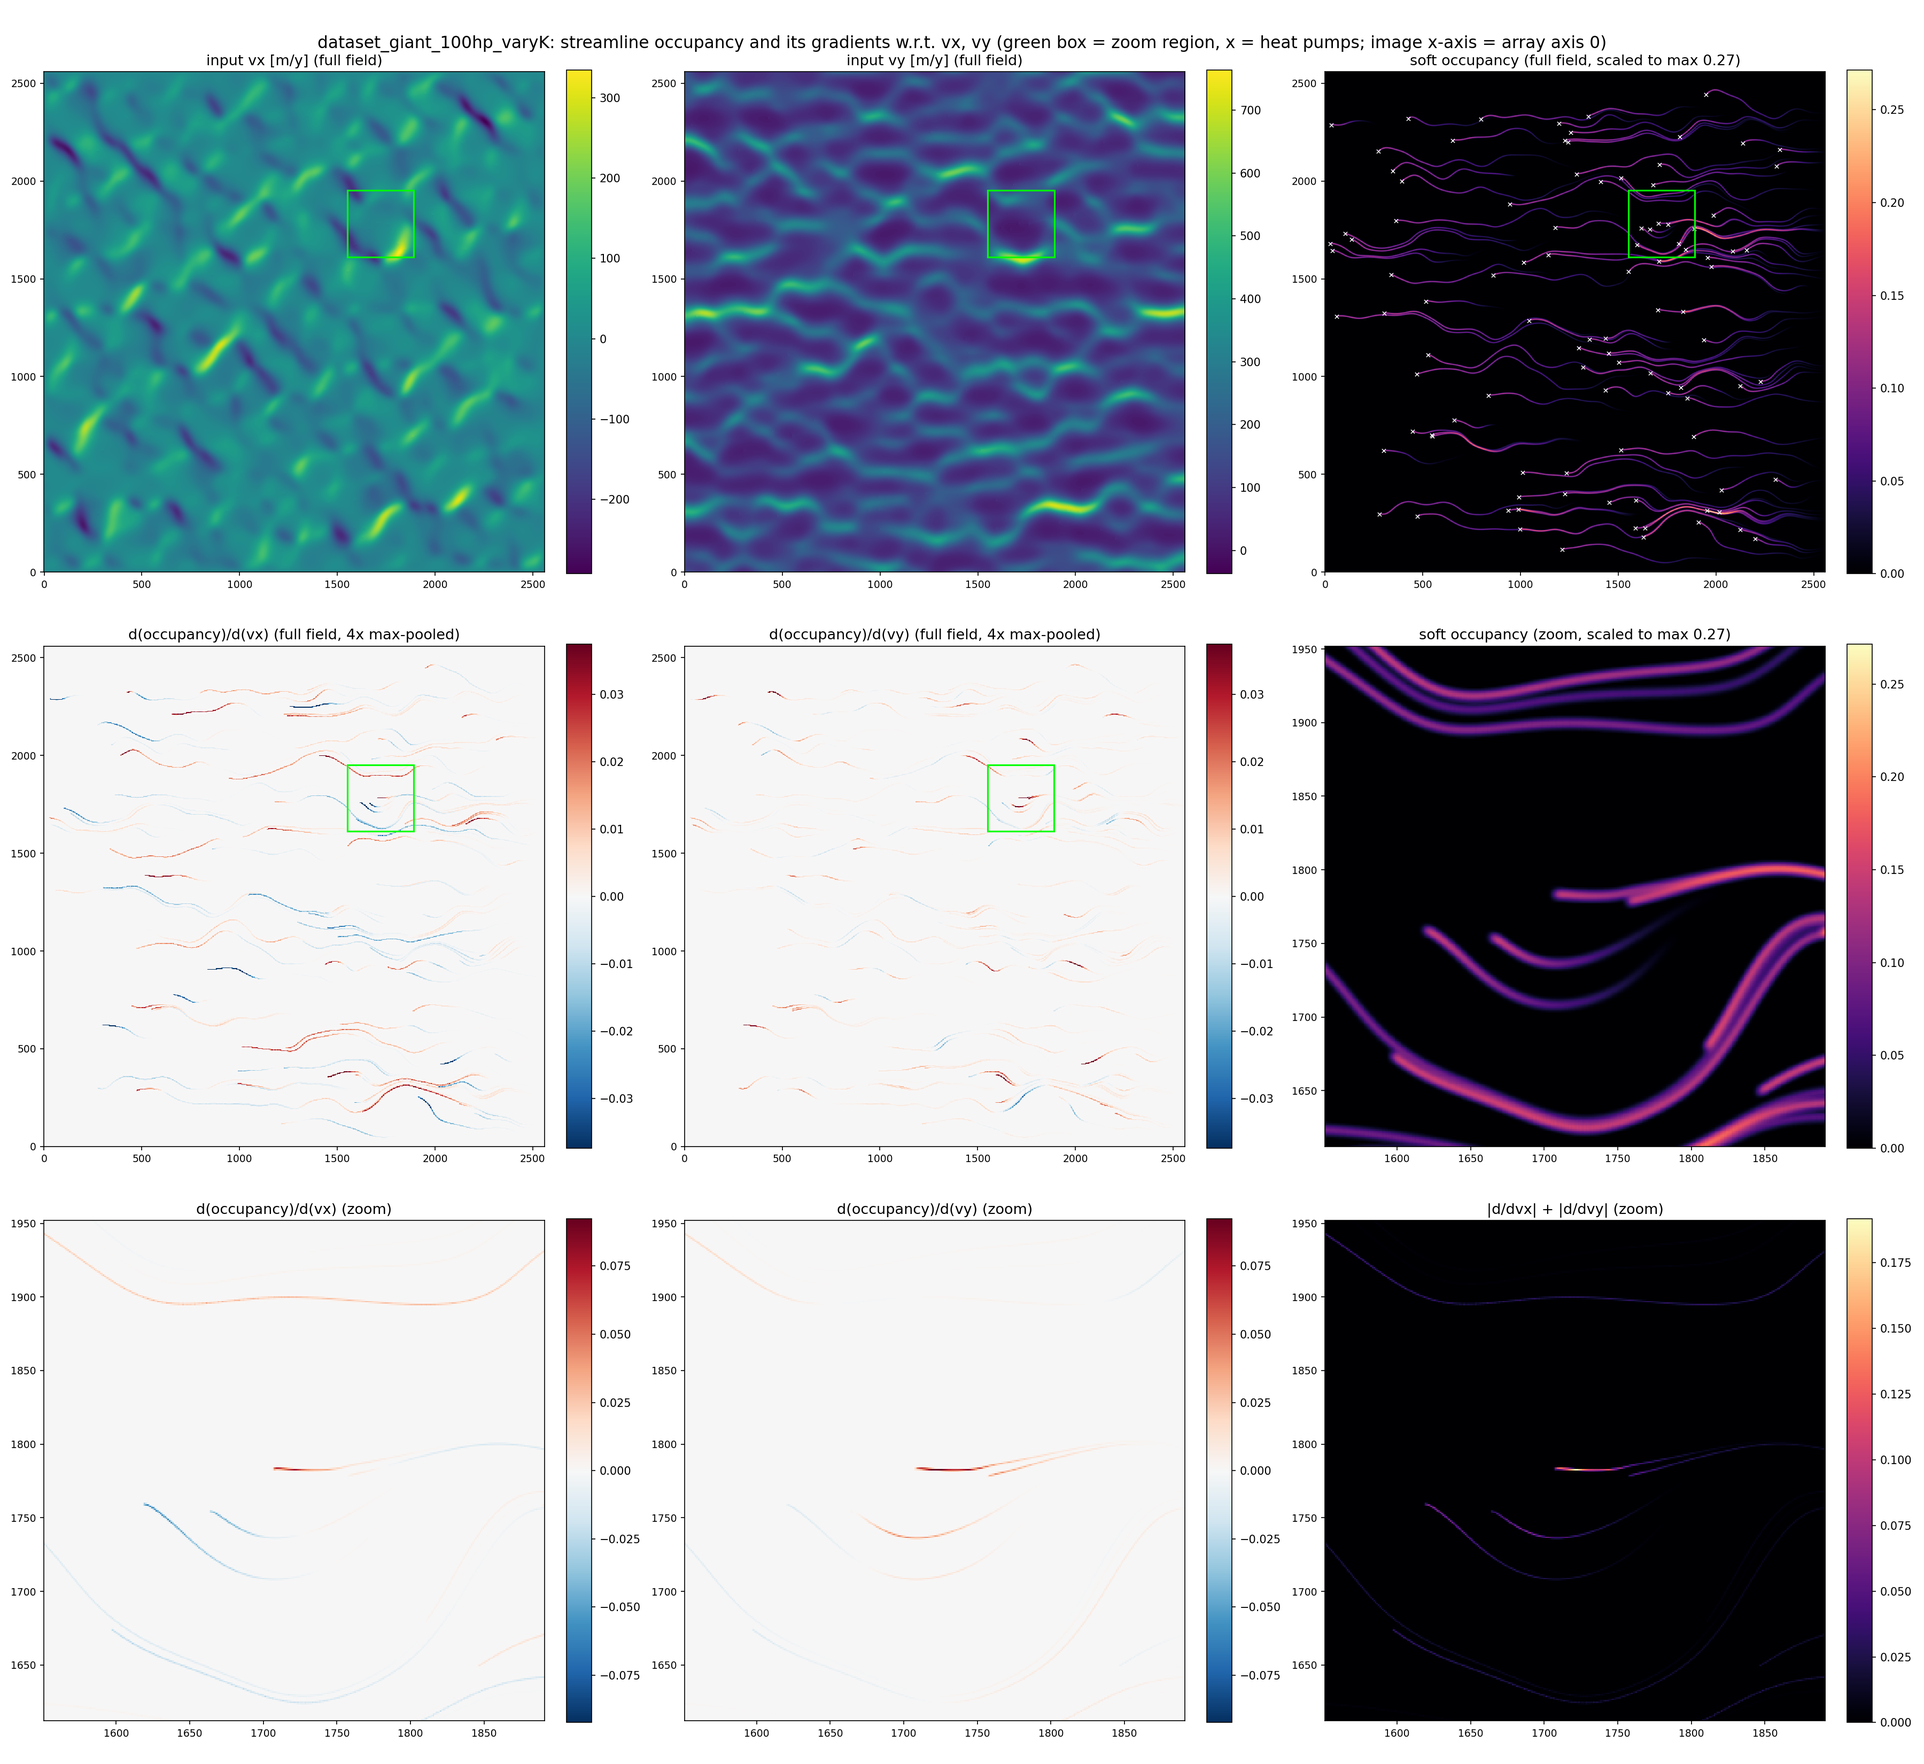
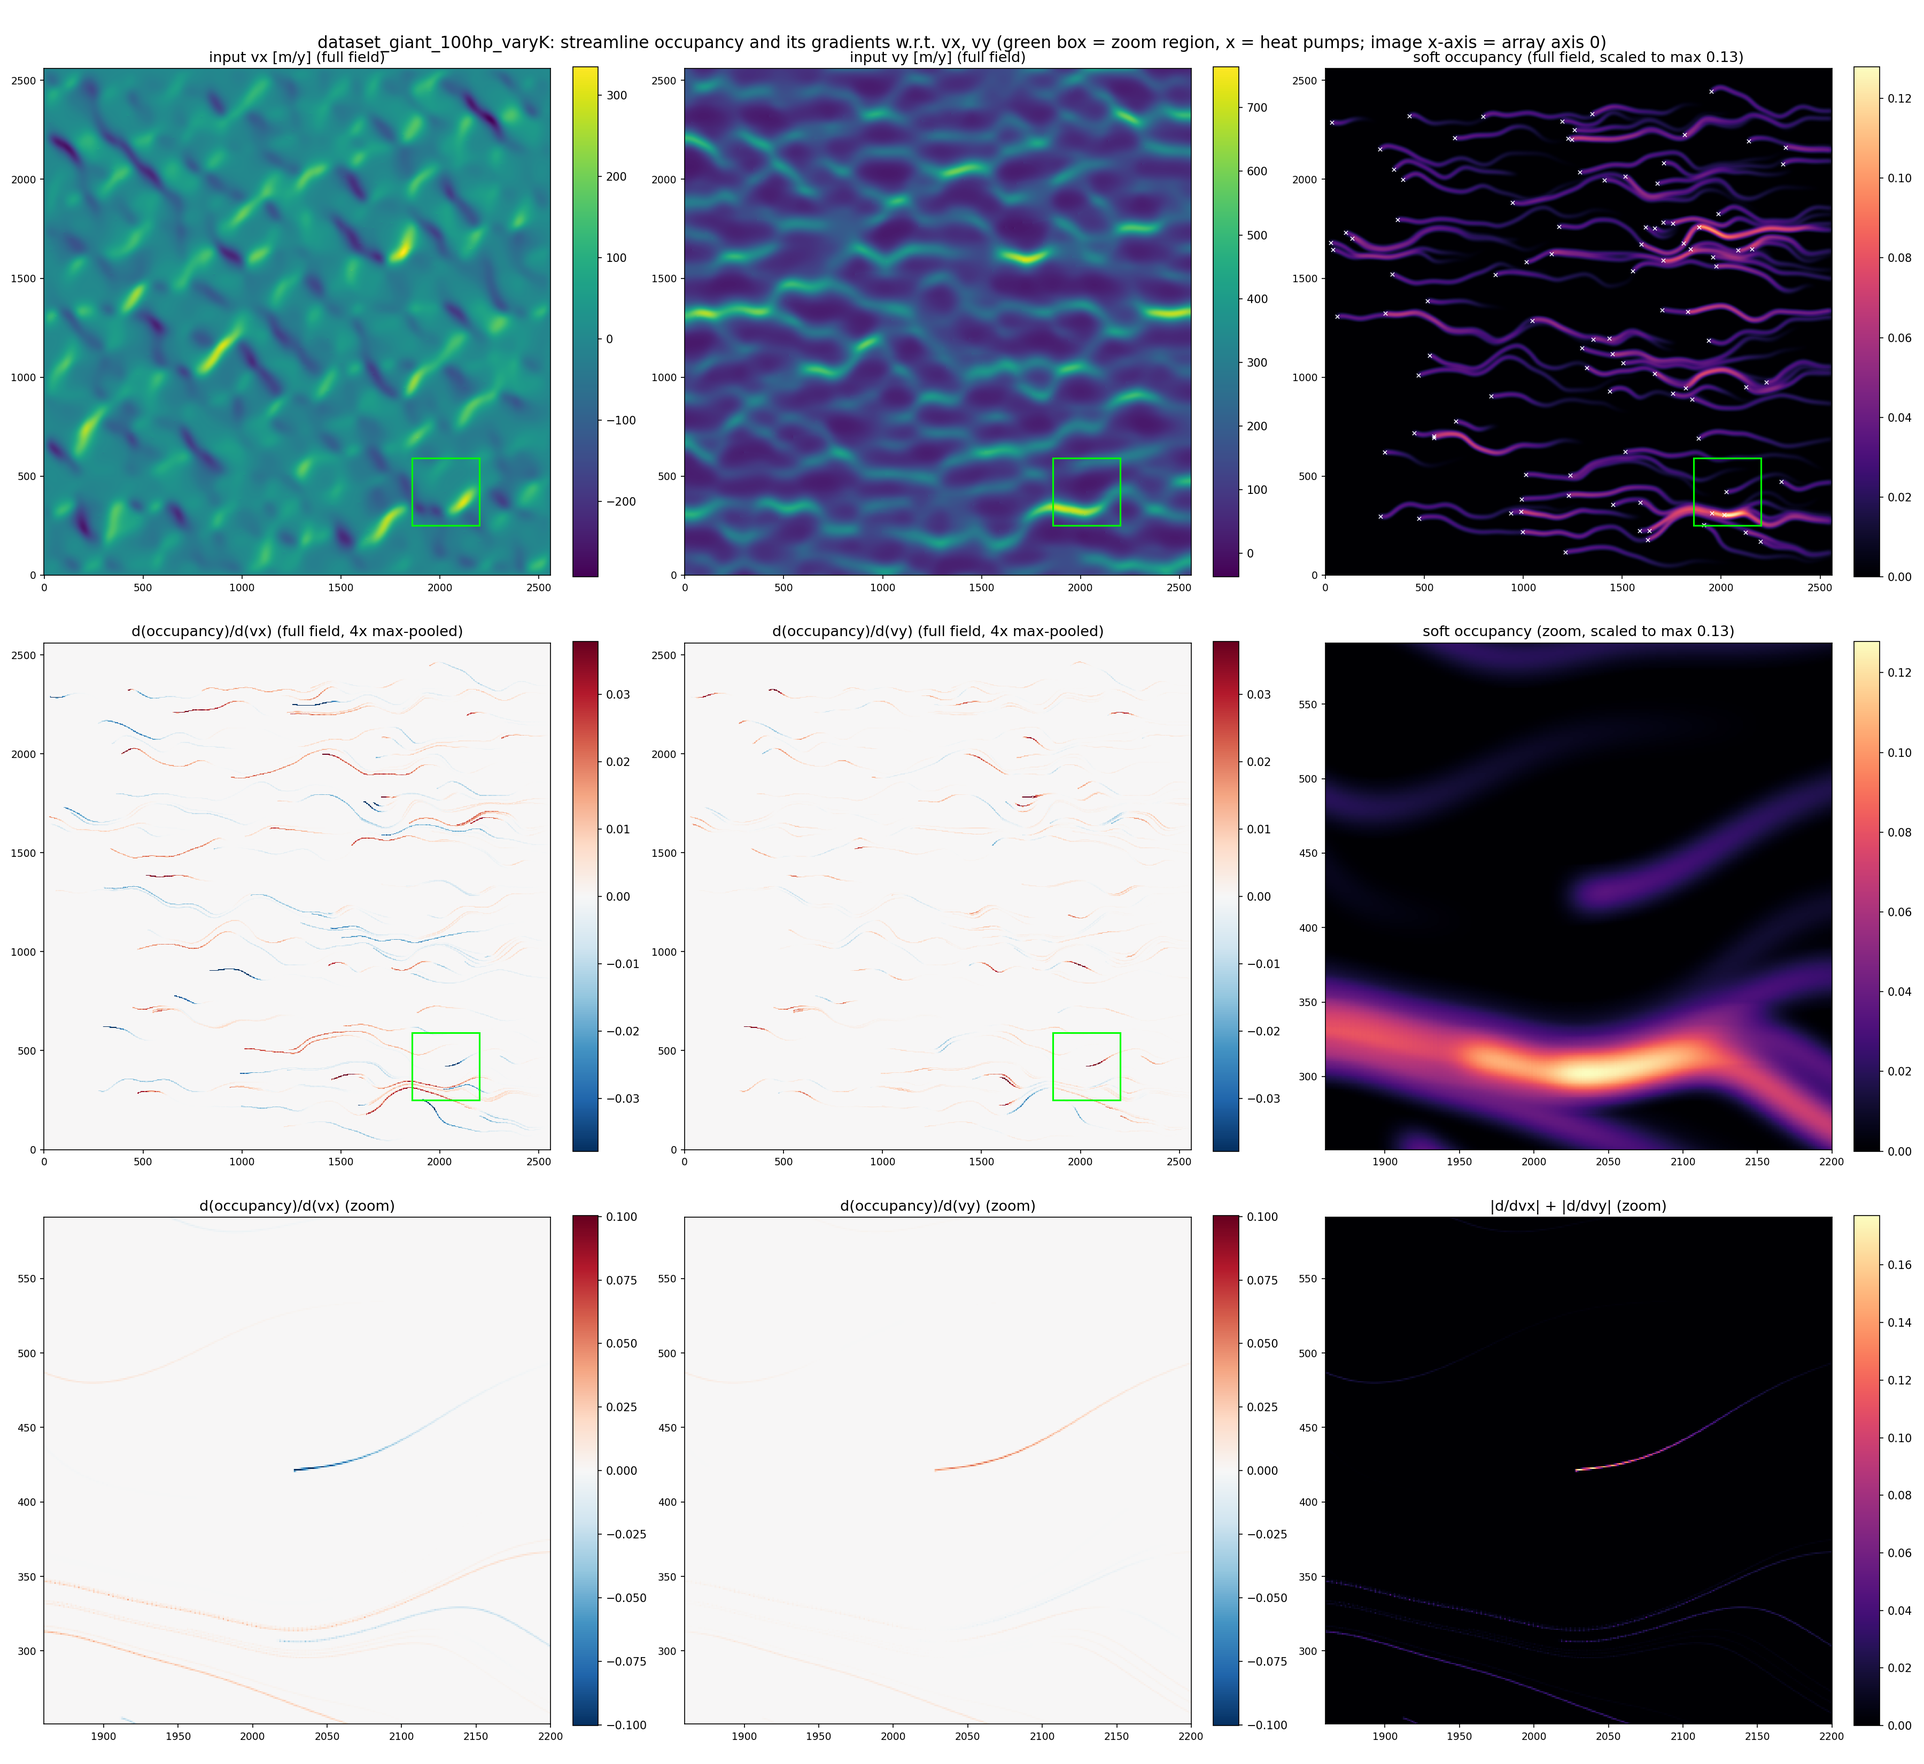
larger blumes with efficient conv kernel

diff --git a/code/step2_streamlines/streamlines_helpers.py b/code/step2_streamlines/streamlines_helpers.py
@@ -1,5 +1,6 @@
 import numpy as np
 import torch
+import torch.nn.functional as F
 from datetime import datetime
 from pathlib import Path
 
@@ -156,27 +157,77 @@ def draw_streamlines(image_data:torch.Tensor, streamlines:list, faded:bool=False
     print("Time for drawing streamlines: ", datetime.now()-time, " seconds")
     return image_data
 
+SIGMA_BLUR_MIN = 1.0  # at/above this sigma "auto" drawing switches from the splat to the blur path
+
+def _scatter_bilinear(density, x, y, amp, dims):
+    # Deposit each sample's mass `amp` on the 4 cell centers surrounding it (centers sit at integer
+    # coordinates, the same convention the splat path's floor(x+0.5) indexing uses). Which 4 cells
+    # are hit is discrete -> detached; the bilinear weights carry the gradient w.r.t. position.
+    i0, j0 = x.floor(), y.floor()
+    fx = (x - i0.detach()).unsqueeze(1)
+    fy = (y - j0.detach()).unsqueeze(1)
+    i0 = i0.detach().long().unsqueeze(1)
+    j0 = j0.detach().long().unsqueeze(1)
+    ii = torch.cat([i0, i0+1, i0,   i0+1], dim=1)
+    jj = torch.cat([j0, j0,   j0+1, j0+1], dim=1)
+    w = torch.cat([(1-fx)*(1-fy), fx*(1-fy), (1-fx)*fy, fx*fy], dim=1) * amp.unsqueeze(1)
+    mask = (ii >= 0) & (ii < dims[0]) & (jj >= 0) & (jj < dims[1])
+    density.index_put_((ii[mask], jj[mask]), w[mask], accumulate=True)
+
+def _gaussian_blur_separable(img, sigma, radius):
+    # The same analytic Gaussian the splat path evaluates, applied as two 1D passes:
+    # exp(-(di^2+dj^2)/2s^2) / (2 pi s^2) factorizes into [exp(-di^2/2s^2) / (sqrt(2 pi) s)] per
+    # axis. The kernel is left un-renormalized so the truncation at +-radius drops the same tail
+    # mass the splat path's window drops. Zero padding discards what blurs out of the domain,
+    # matching the splat path's bounds mask. Cost: 2*(2*radius+1) taps over the grid.
+    r = torch.arange(-radius, radius+1, dtype=img.dtype, device=img.device)
+    k = torch.exp(-r**2 / (2*sigma**2)) / (np.sqrt(2*np.pi) * sigma)
+    out = img.unsqueeze(0).unsqueeze(0)
+    out = F.conv2d(out, k.view(1, 1, -1, 1), padding=(radius, 0))
+    out = F.conv2d(out, k.view(1, 1, 1, -1), padding=(0, radius))
+    return out[0, 0]
+
 def draw_streamlines_soft(streamlines, dims, faded:bool=False, sigma:float=0.7, window:int=None,
-                          fade_mode:str="absolute", t_end:float=27.5):
+                          fade_mode:str="absolute", t_end:float=27.5, method:str="auto"):
     # Differentiable version of draw_streamlines: instead of setting single cells (gradient zero
-    # almost everywhere), every sample spreads a normalized Gaussian over its window x window
-    # neighborhood. Samples are weighted by their arc length ds, so a cell's density is the
-    # faded line length crossing it (independent of the time-sampling density) and does not
-    # saturate where samples are dense. occupancy = 1 - exp(-density) keeps values in [0,1).
+    # almost everywhere), every sample spreads a normalized Gaussian of width sigma. Samples are
+    # weighted by their arc length ds, so a cell's density is the faded line length crossing it
+    # (independent of the time-sampling density) and does not saturate where samples are dense.
+    # occupancy = 1 - exp(-density) keeps values in [0,1).
     # fade_mode "absolute" (default): fade = 1 - t/t_end - independent of where a line is cut,
     # so patch/window training and full-domain inference see identical channel semantics.
     # "per_line" (legacy, baseline comparability): fade 1 -> 0 over each line's visible segment,
     # the paper convention used by the offline hard-drawn datasets.
+    #
+    # Two ways to rasterize the same field, selected by `method`:
+    #  "splat": evaluate the Gaussian at every cell of each sample's window x window neighborhood.
+    #      Exact, but allocates n_samples x window^2 = n_samples x (4 sigma + 1)^2 entries per line
+    #      and *keeps them in the autograd graph* -> memory grows quadratically in sigma and runs a
+    #      24 GB card out of memory around sigma >~ 4 on full-domain data.
+    #  "blur": a Gaussian splat is a point mass convolved with a Gaussian, so scatter each sample
+    #      bilinearly (4 cells) and convolve the accumulated density once, separably. Memory per
+    #      sample is constant in sigma and the convolution is one cheap pass over the grid; the
+    #      backward is again a convolution. Gradients w.r.t. sample position flow through the
+    #      bilinear weights and are then smoothed by the blur.
+    #  "auto" (default): "blur" from sigma >= SIGMA_BLUR_MIN, "splat" below, where the splat path is
+    #      cheap and its exact sub-cell kernel still matters relative to the blob size.
+    # Bilinear deposition is itself a convolution with a triangular kernel of variance 1/6 per axis,
+    # so the blur uses sqrt(sigma^2 - 1/6) to land on total width sigma - the two paths then agree
+    # to well under a percent across the switch (the correction is 0.008% at sigma=10).
     if window is None:
         window = 2*int(np.ceil(2*sigma)) + 1  # cover +-2 sigma
+    use_blur = method == "blur" or (method == "auto" and sigma >= SIGMA_BLUR_MIN)
+    if method not in ("auto", "blur", "splat"):
+        raise ValueError(f"unknown drawing method {method!r} (expected 'auto', 'blur' or 'splat')")
     device = streamlines[0][0].device if streamlines else "cpu"
     dtype = streamlines[0][0].dtype if streamlines else torch.float32
     density = torch.zeros(tuple(dims), dtype=dtype, device=device)
     half = window // 2
-    offs = torch.arange(-half, half+1, dtype=dtype, device=device)
-    off_i, off_j = torch.meshgrid(offs, offs, indexing='ij')
-    off_i = off_i.reshape(1,-1)
-    off_j = off_j.reshape(1,-1)
+    if not use_blur:
+        offs = torch.arange(-half, half+1, dtype=dtype, device=device)
+        off_i, off_j = torch.meshgrid(offs, offs, indexing='ij')
+        off_i = off_i.reshape(1,-1)
+        off_j = off_j.reshape(1,-1)
     for sol_x, sol_y, t in streamlines:
         if len(t) < 2:
             continue
@@ -189,6 +240,10 @@ def draw_streamlines_soft(streamlines, dims, faded:bool=False, sigma:float=0.7, 
             fade = (1 - t/t_end).clamp(min=0)
         else:  # per_line
             fade = 1 - t/t[-1]
+        if use_blur:
+            # unit point masses now, Gaussian applied to the summed density below
+            _scatter_bilinear(density, sol_x, sol_y, fade*ds, dims)
+            continue
         # cells around each sample; which cell a blob lands in is discrete -> detached,
         # the smooth kernel below carries the gradient
         cells_i = (sol_x + 0.5).floor().detach().unsqueeze(1) + off_i
@@ -197,11 +252,13 @@ def draw_streamlines_soft(streamlines, dims, faded:bool=False, sigma:float=0.7, 
         w = torch.exp(-d2/(2*sigma**2)) / (2*np.pi*sigma**2) * (fade*ds).unsqueeze(1)
         mask = (cells_i >= 0) & (cells_i < dims[0]) & (cells_j >= 0) & (cells_j < dims[1])
         density.index_put_((cells_i[mask].long(), cells_j[mask].long()), w[mask], accumulate=True)
+    if use_blur:
+        density = _gaussian_blur_separable(density, np.sqrt(max(sigma**2 - 1/6, 1e-6)), half)
     return 1 - torch.exp(-density)
 
 def trace_and_draw_soft(hp_positions, vx, vy, dims, offsets:list=(0,), randomK_data:bool=False,
                         faded:bool=True, t_steps:int=10_000, sigma:float=1.0, use_compile:bool=False,
-                        fade_mode:str="absolute"):
+                        fade_mode:str="absolute", method:str="auto"):
     # Differentiable forward pass of step 2: trace streamlines for all offsets in one batch and
     # rasterize each offset group to a soft-occupancy image (one image per offset).
     # No detach/no_grad: gradients flow from the images back to vx, vy (physical velocities in
@@ -217,7 +274,8 @@ def trace_and_draw_soft(hp_positions, vx, vy, dims, offsets:list=(0,), randomK_d
 
     velocity = build_velocity_grid(vx/resolution, vy/resolution, dims, randomK_data=randomK_data)
     streamlines = calc_streamlines(starts, velocity, (dims[0]-1, dims[1]-1), t_end=27.5, t_steps=t_steps, use_compile=use_compile)
-    return [draw_streamlines_soft(streamlines[i*n_hps:(i+1)*n_hps], dims, faded=faded, sigma=sigma, fade_mode=fade_mode)
+    return [draw_streamlines_soft(streamlines[i*n_hps:(i+1)*n_hps], dims, faded=faded, sigma=sigma,
+                                  fade_mode=fade_mode, method=method)
             for i in range(len(offsets))]
 
 def make_streamlines_gradients(mat_ids, vx, vy, dims, offset:float=None, randomK_data:bool=False, faded:bool=True,

diff --git a/code/step2_streamlines/test_streamlines_gradients.py b/code/step2_streamlines/test_streamlines_gradients.py
@@ -36,7 +36,7 @@ DATASET_NAME = "dataset_giant_100hp_varyK"
 RANDOM_K = True
 
 T_STEPS = 1200   # caps the RK4 steps; backward through the loop is the expensive part
-SIGMA = 2.5      # splat width in cells, sized so lines/gradients are visible on the 2560^2 grid
+SIGMA = 10.0      # splat width in cells, sized so lines/gradients are visible on the 2560^2 grid
 ZOOM = 340       # zoom window size in cells
 DEVICE = "cuda" if torch.cuda.is_available() else "cpu"
 
@@ -77,23 +77,55 @@ def gradcheck_streamlines():
     element-by-element against float64 central differences on a tiny problem.
     Needs float64 (the production pipeline is float32) and a slow, smooth velocity field so no
     line is cut at the domain boundary (cuts are discrete events - genuinely non-differentiable
-    points where a Jacobian comparison must not sit)."""
+    points where a Jacobian comparison must not sit).
+    Run for both rasterization paths: the exact splat (small sigma) and the scatter+separable-blur
+    path that takes over from sigma >= SIGMA_BLUR_MIN."""
     dims_gc = (16, 12)
     xx, yy = np.meshgrid(np.arange(dims_gc[0]), np.arange(dims_gc[1]), indexing="ij")
-    vx0 = torch.tensor(0.5 + 0.1*np.sin(yy/3.), dtype=torch.float64, requires_grad=True)
-    vy0 = torch.tensor(0.2*np.cos(xx/4.), dtype=torch.float64, requires_grad=True)
     starts = torch.tensor([[4.5, 3.5], [8.5, 6.5]], dtype=torch.float64)
 
-    def f(vx_in, vy_in):
+    def f(vx_in, vy_in, sigma, method):
         velocity = build_velocity_grid(vx_in, vy_in, dims_gc, dtype=torch.float64)
         lines = calc_streamlines(starts, velocity, (dims_gc[0]-1, dims_gc[1]-1), t_end=4.0, t_steps=48)
-        occ = draw_streamlines_soft(lines, dims_gc, faded=True, sigma=0.8, fade_mode="absolute", t_end=4.0)
+        occ = draw_streamlines_soft(lines, dims_gc, faded=True, sigma=sigma, fade_mode="absolute",
+                                    t_end=4.0, method=method)
         return occ.sum()
 
-    t0 = time.time()
-    assert torch.autograd.gradcheck(f, (vx0, vy0), eps=1e-6, atol=1e-4, rtol=1e-3)
-    n = 2 * dims_gc[0] * dims_gc[1]
-    print(f"autograd.gradcheck PASSED ({n} partial derivatives verified element-wise, {time.time()-t0:.1f}s)")
+    for sigma, method in [(0.8, "splat"), (2.5, "blur")]:
+        vx0 = torch.tensor(0.5 + 0.1*np.sin(yy/3.), dtype=torch.float64, requires_grad=True)
+        vy0 = torch.tensor(0.2*np.cos(xx/4.), dtype=torch.float64, requires_grad=True)
+        t0 = time.time()
+        assert torch.autograd.gradcheck(lambda a, b: f(a, b, sigma, method), (vx0, vy0),
+                                        eps=1e-6, atol=1e-4, rtol=1e-3)
+        n = 2 * dims_gc[0] * dims_gc[1]
+        print(f"autograd.gradcheck PASSED for method={method!r} (sigma={sigma}): "
+              f"{n} partial derivatives verified element-wise, {time.time()-t0:.1f}s")
+
+
+def compare_drawing_methods(sigma=10.0, dims=(256, 256), t_steps=2000):
+    """The blur path must reproduce the splat path it replaces. Same lines, both rasterizations:
+    compares the occupancy fields and the velocity gradients they produce."""
+    xx, yy = np.meshgrid(np.arange(dims[0]), np.arange(dims[1]), indexing="ij")
+    starts = torch.tensor([[20.5, 15.5], [40.5, 60.5], [90.5, 30.5], [150.5, 100.5]])
+    out = {}
+    for method in ("splat", "blur"):
+        vx0 = torch.tensor(2.0 + 0.5*np.sin(yy/30.), dtype=torch.float32, requires_grad=True)
+        vy0 = torch.tensor(3.0 + 0.8*np.cos(xx/40.), dtype=torch.float32, requires_grad=True)
+        velocity = build_velocity_grid(vx0, vy0, dims)
+        lines = calc_streamlines(starts, velocity, (dims[0]-1, dims[1]-1), t_steps=t_steps)
+        occ = draw_streamlines_soft(lines, dims, faded=True, sigma=sigma, method=method)
+        occ.sum().backward()
+        out[method] = (occ.detach(), vx0.grad.clone(), vy0.grad.clone())
+
+    occ_s, gx_s, gy_s = out["splat"]
+    occ_b, gx_b, gy_b = out["blur"]
+    d_occ = float((occ_s - occ_b).abs().max() / occ_s.abs().max())
+    cos_x = float(torch.nn.functional.cosine_similarity(gx_s.flatten(), gx_b.flatten(), dim=0))
+    cos_y = float(torch.nn.functional.cosine_similarity(gy_s.flatten(), gy_b.flatten(), dim=0))
+    print(f"splat vs blur at sigma={sigma}: max occupancy diff {d_occ:.2%} of peak, "
+          f"gradient cosine similarity {cos_x:.6f} (vx) / {cos_y:.6f} (vy)")
+    assert d_occ < 0.02, f"occupancy fields disagree by {d_occ:.2%}"
+    assert min(cos_x, cos_y) > 0.999, f"gradient directions disagree: {min(cos_x, cos_y)}"
 
 
 def finite_difference_check(mat_ids, vx, vy, dims, grad, component, n_cells=3, eps=0.5):
@@ -183,6 +215,7 @@ def plot_all(vx, vy, occ, grad_vx, grad_vy, starts, out_path):
 
 if __name__ == "__main__":
     gradcheck_streamlines()
+    compare_drawing_methods()
 
     runid = (sys.argv[1] if len(sys.argv) > 1 else "RUN_1").replace(".pt", "") + ".pt"
     mat_ids, vx, vy, dims = load_real_data(runid)

diff --git a/code/processing/e2e_grad_diag.py b/code/processing/e2e_grad_diag.py
@@ -189,7 +189,7 @@ def _plot(streamlines, m_stream, m_direct, m_gsf, norms, stats, plot_path, detac
     fig.colorbar(im, ax=axes[0, 1], fraction=0.046, pad=0.04)
 
     im = axes[0, 2].imshow(logmap(m_direct), origin="lower", cmap="viridis", interpolation="nearest")
-    axes[0, 2].set_title("log10 |dL/dv| via DIRECT channels (route D)", fontsize=10)
+    axes[0, 2].set_title("log10 |dL/dv| via DIRECT channels (skip route)", fontsize=10)
     fig.colorbar(im, ax=axes[0, 2], fraction=0.046, pad=0.04)
 
     im = axes[1, 0].imshow(logmap(m_gsf), origin="lower", cmap="magma", interpolation="nearest")
